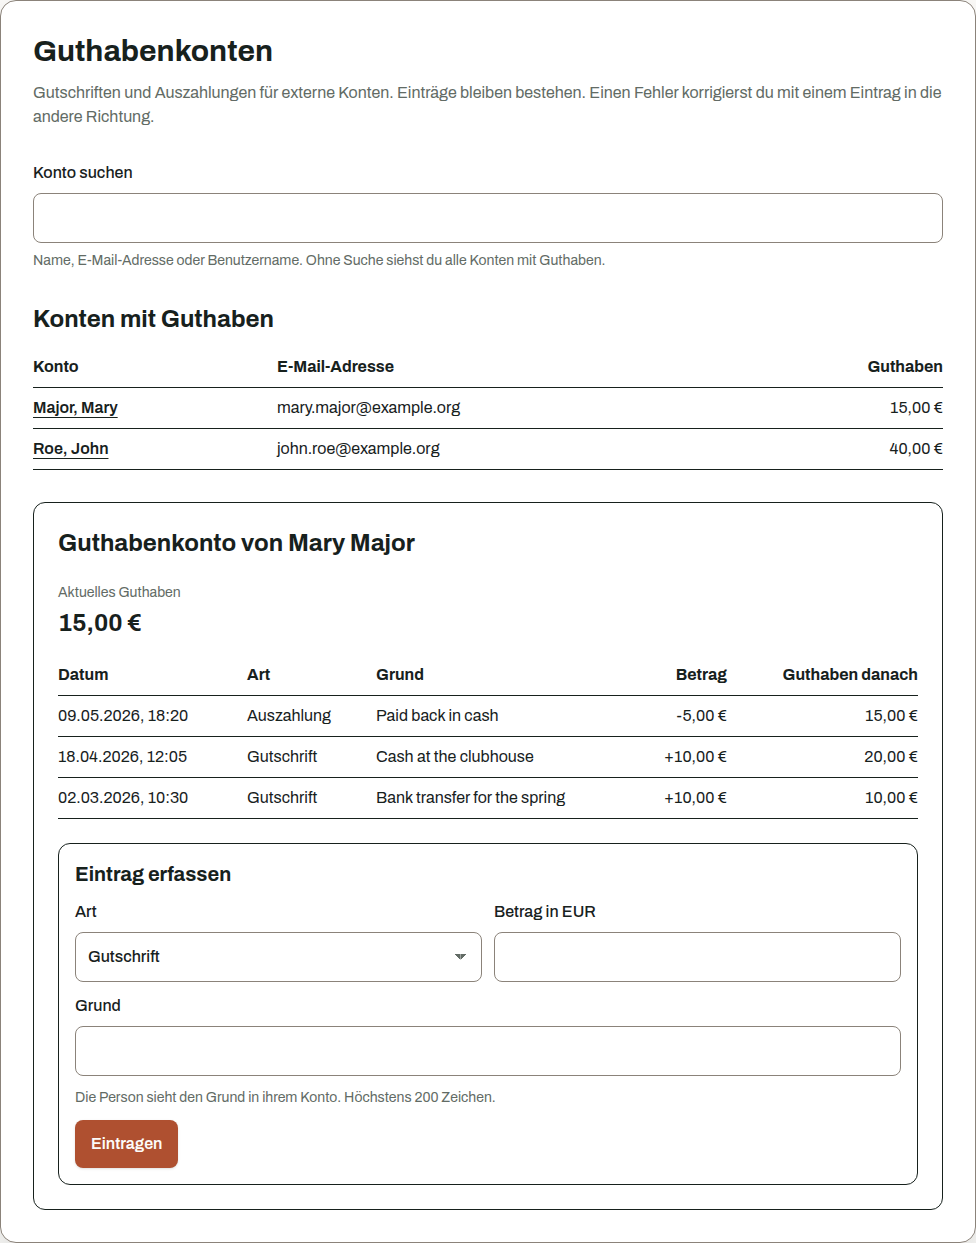
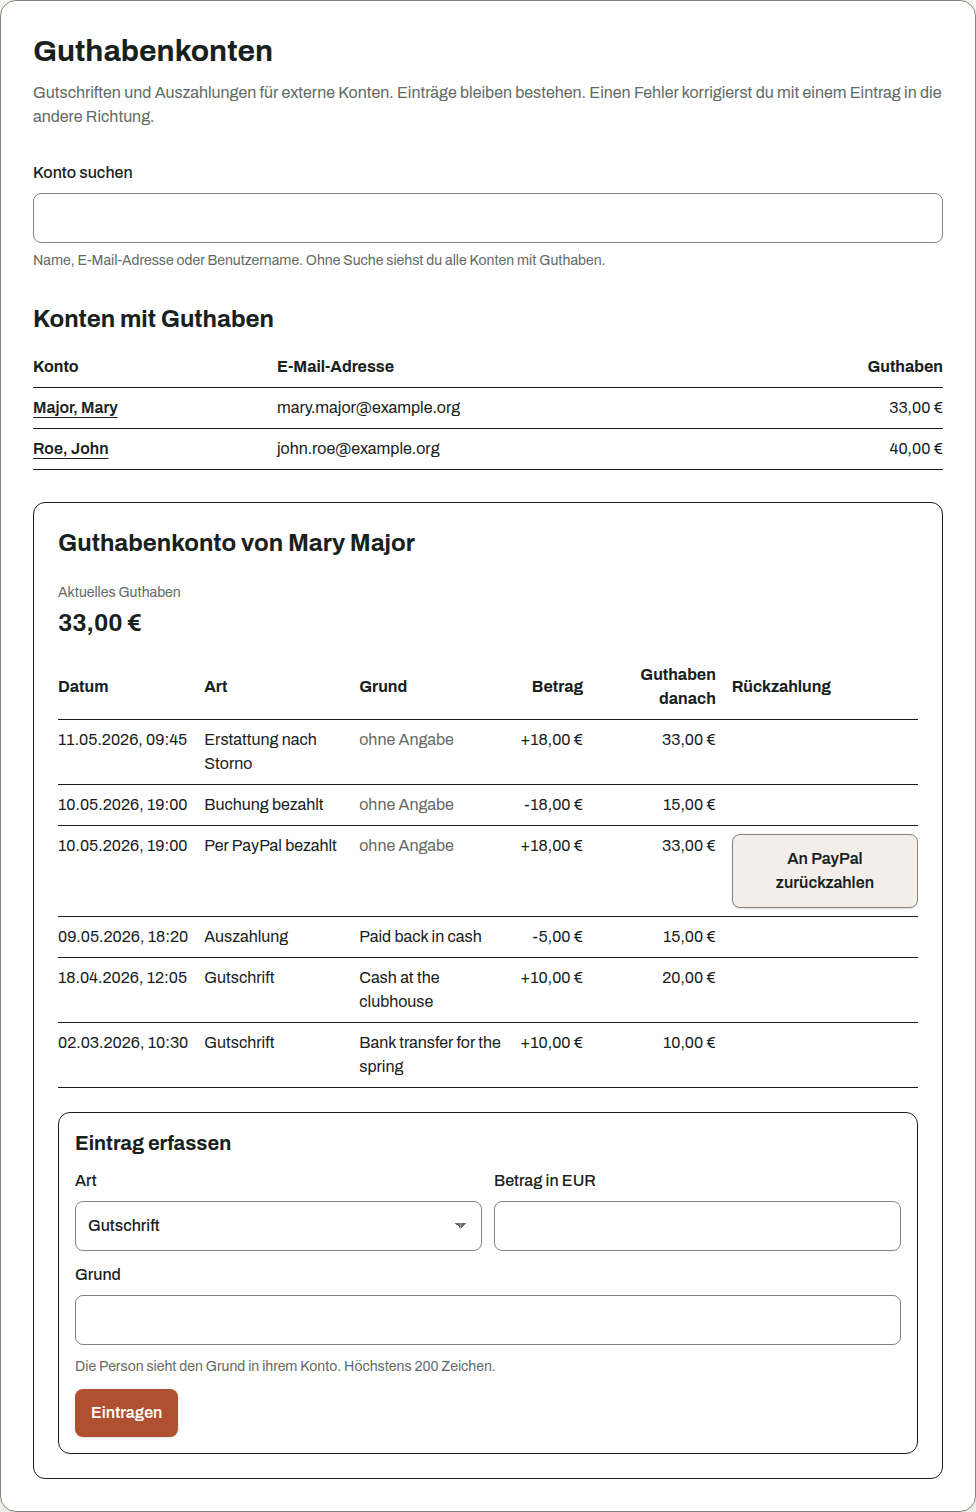
docs: describe returning a PayPal payment
The design names the conditions, the three steps, the clear-refusal rule and
the job. security-risks records that an unclear refund keeps the credit taken.
The board and member guides explain the action, its states and the new ledger
lines, and the credit screenshot shows a cancelled PayPal payment to return.
The journey catalogue count was already stale and now matches the files.

diff --git a/frontend/e2e/admin-examples.ts b/frontend/e2e/admin-examples.ts
@@ -56,15 +56,25 @@ export const operationalLogExample = {
 
 export const creditHoldersExample = [
   { accountId: "77777777-0000-0000-0000-000000000001", firstName: "Mary", lastName: "Major",
-    email: "mary.major@example.org", balanceMinor: 1500, currency: "EUR" },
+    email: "mary.major@example.org", balanceMinor: 3300, currency: "EUR" },
   { accountId: "77777777-0000-0000-0000-000000000002", firstName: "John", lastName: "Roe",
     email: "john.roe@example.org", balanceMinor: 4000, currency: "EUR" }
 ];
 
+const PAYPAL_EXAMPLE_ORDER = "5O190127TN364715T";
+const PAYPAL_EXAMPLE_BOOKING = "7f400000-0000-0000-0000-000000000002";
+
 export const creditLedgerExample = {
-  balanceMinor: 1500,
+  balanceMinor: 3300,
   currency: "EUR",
   items: [
+    { id: "88888888-0000-0000-0000-000000000006", kind: "BOOKING_REFUND", amountMinor: 1800, currency: "EUR",
+      balanceAfterMinor: 3300, recordedAt: "2026-05-11T07:45:00Z", bookingId: PAYPAL_EXAMPLE_BOOKING },
+    { id: "88888888-0000-0000-0000-000000000005", kind: "BOOKING_DEBIT", amountMinor: -1800, currency: "EUR",
+      balanceAfterMinor: 1500, recordedAt: "2026-05-10T17:00:00Z", bookingId: PAYPAL_EXAMPLE_BOOKING },
+    { id: "88888888-0000-0000-0000-000000000004", kind: "PAYPAL_PAYMENT", amountMinor: 1800, currency: "EUR",
+      balanceAfterMinor: 3300, recordedAt: "2026-05-10T17:00:00Z", bookingId: PAYPAL_EXAMPLE_BOOKING,
+      paypalOrderId: PAYPAL_EXAMPLE_ORDER },
     { id: "88888888-0000-0000-0000-000000000003", kind: "PAYOUT", amountMinor: -500, currency: "EUR",
       balanceAfterMinor: 1500, recordedAt: "2026-05-09T16:20:00Z", note: "Paid back in cash" },
     { id: "88888888-0000-0000-0000-000000000002", kind: "CREDIT", amountMinor: 1000, currency: "EUR",
@@ -74,6 +84,8 @@ export const creditLedgerExample = {
   ],
   nextCursor: null
 };
+
+export const payPalRefundOptionsExample = { items: [{ orderId: PAYPAL_EXAMPLE_ORDER, refundable: true }] };
 
 export const guestFeesExample = {
   from: "2026-01-01",

diff --git a/frontend/e2e/guide-screenshots.spec.ts b/frontend/e2e/guide-screenshots.spec.ts
@@ -1,6 +1,6 @@
 import { readFileSync } from "node:fs";
 import { type Page, type TestInfo } from "@playwright/test";
-import { accessGrantsExample, connectionCheckExample, creditHoldersExample, creditLedgerExample, guestFeesExample, operatorHealthExample, payPalCaptureExample, payPalCheckExample, payPalSettingsExample } from "./admin-examples";
+import { accessGrantsExample, connectionCheckExample, creditHoldersExample, creditLedgerExample, guestFeesExample, operatorHealthExample, payPalCaptureExample, payPalCheckExample, payPalRefundOptionsExample, payPalSettingsExample } from "./admin-examples";
 import { backAtTheJourneyInstant, expect, expectAdministrationOverview, onTheVisualDay, selectPreference, test } from "./fixtures";
 
 // The guides are read in the light theme on a page column, in the language its project names, and
@@ -308,10 +308,12 @@ const drivers: Record<string, (page: Page, visualDate: string) => Promise<void>>
   "credit": async (page) => {
     await page.context().route("**/api/treasury/credit/accounts", (route) => route.fulfill({ json: creditHoldersExample }));
     await page.context().route("**/api/treasury/credit/accounts/*/entries*", (route) => route.fulfill({ json: creditLedgerExample }));
+    await page.context().route("**/api/treasury/paypal/refunds?*", (route) => route.fulfill({ json: payPalRefundOptionsExample }));
     await page.getByTestId("admin-credit-link").click();
     await expect(page.getByTestId("credit-holder"), "the example, not the live instance, is drawn").toHaveCount(2);
     await page.getByTestId("credit-holder-open").first().click();
-    await expect(page.getByTestId("credit-entry")).toHaveCount(3);
+    await expect(page.getByTestId("credit-entry")).toHaveCount(6);
+    await expect(page.getByTestId("paypal-refund"), "the cancelled PayPal booking offers its return").toBeVisible();
     await expect(page.getByTestId("credit-form")).toBeVisible();
   },
   "paypal": async (page) => {

diff --git a/docs/design.md b/docs/design.md
@@ -510,8 +510,52 @@ an attempt is read at PayPal with the former credentials: a capture is recorded,
 order voided, and an unreadable one stays open for the reconciliation. An order keeps the
 environment it was created in, and sandbox credentials work on every instance.
 
-Courtside stores nothing from PayPal's payer object. The audit events of the checkout name the
-booking, the order, the environment, amounts and reasons, never payer data.
+#### Returning a PayPal payment
+
+`TREASURER` and `ADMIN` return one whole PayPal payment through PayPal from the treasurer credit
+page; a partial refund does not exist. `GET /api/treasury/paypal/refunds?accountId=` lists an
+account's PayPal payments and says for each whether it can be returned, and why not when it cannot.
+A payment can be returned when its order is `CAPTURED` and its booking was cancelled with a
+`BOOKING_REFUND`, or `LATE_CAPTURED` and credited with a `PAYPAL_LATE_CAPTURE`; when the order has
+no refund in any status; when the payer's balance still covers the amount of the order's credit
+entry; and when PayPal is on with the environment the order was created in. Otherwise
+`POST /api/treasury/paypal/refunds` refuses it with `payment.paypal.refund.notRefundable`,
+`payment.paypal.refund.alreadyRefunded`, `payment.paypal.refund.creditSpent` with amount, balance
+and currency, or `payment.paypal.refund.unavailable`, and writes nothing. The request needs a
+recent authentication. An anonymised account's payment can be returned too.
+
+The return runs in three steps, and no database lock is held across the PayPal call:
+
+1. One transaction locks the `paypal_order` row and then the payer's credit account, checks the
+   conditions, appends a `PAYPAL_REFUND` entry of minus the amount, stores a `PENDING`
+   `paypal_refund` and audits `payment.paypal.refund.requested`.
+2. Courtside asks PayPal to refund the capture in full, with the `paypal_refund` id as
+   `PayPal-Request-Id`, so a repeated request cannot refund twice.
+3. The answer is recorded under the order's row lock. A completed refund becomes `COMPLETED` with
+   PayPal's refund id, is audited as `payment.paypal.refunded` and tells the payer that the amount
+   went back to PayPal; this message kind cannot be declined. A refund PayPal holds as pending keeps
+   its refund id and stays `PENDING`.
+
+Credit comes back only on a clear refusal: a 4xx answer to the refund request other than 401, 403,
+409, 429, a duplicate or in-progress request and an already fully refunded capture, or a refund
+PayPal reports as `FAILED` or `CANCELLED`. Before restoring it Courtside reads the order, and follows
+a refund of the full amount PayPal lists there instead. A refusal marks the refund `FAILED` with
+PayPal's reason, appends a `PAYPAL_REFUND_REVERSED` of the amount and is audited as
+`payment.paypal.refundFailed`. `FAILED` is final for the order; the treasurer then pays out by hand.
+A capture PayPal reports as already fully refunded, for example after a refund in the PayPal
+account, is resolved by reading the order: a completed refund listed there is recorded as completed,
+otherwise the refund stays pending. Every other answer, including no answer, a timeout, a 5xx and a
+body Courtside cannot read, leaves the refund `PENDING` with its credit taken.
+
+`PayPalReconciliation` also resolves `PENDING` refunds older than five minutes, up to 50 per run and
+longest unchecked first: one without a PayPal refund id is requested again with the same request id
+after reading the order, one with an id is read at PayPal, and the answer is recorded as in step 3.
+These calls count towards the run's stop after three unanswered reads. A refund that stays unclear
+keeps its credit taken, and the treasurer page shows it as unclear with the advice to check the
+PayPal account.
+
+Courtside stores nothing from PayPal's payer object. The audit events of the checkout and the refund
+name the booking, the order, the environment, amounts and reasons, never payer data.
 
 The guest fee report under `/api/treasury` lists, for `TREASURER` and `ADMIN`, each member's charged
 guest places and their sum for a period, by default the current calendar year in the club time
@@ -1519,8 +1563,8 @@ leaving the queue is how a member stops it. It always reaches the centre, follow
 choice and is handed to the relay before ordinary booking mail because it runs out within minutes.
 A mail composed after the offer was taken, declined or expired fails instead of being sent.
 The welcome, credentials, displacement, participant-addition notices, the club's cancellations,
-freed bookings and series moves cannot be disabled as kinds, because no other product path tells the member that
-somebody else wrote them into a booking, took one away or moved it. A holder's own cancellation and the
+freed bookings, series moves and a returned PayPal payment cannot be disabled as kinds, because no other product
+path tells the member that somebody else wrote them into a booking, took one away, moved it or sent their money back. A holder's own cancellation and the
 series summary can be declined, like the confirmation: My bookings already shows what they say. A
 declined email channel stops the mail for displacement, participant-addition notices and the club's
 cancellations and moves as well; the centre then replaces it, and every centre page carries the

diff --git a/site/board-guide.md b/site/board-guide.md
@@ -749,7 +749,7 @@ jedes Konto mit Guthaben. Die Suche findet externe Konten nach Name, E-Mail-Adre
 Benutzername. Administratoren finden die Seite unter *Mitglieder*, Kassenwarte direkt in der
 Seitenleiste.
 
-![Das Guthaben eines externen Spielers mit Stand, Einträgen und dem Formular für Gutschrift und Auszahlung.](screenshots/de/credit.png)
+![Das Guthaben eines externen Spielers mit Stand, Einträgen, einer stornierten PayPal-Zahlung zum Zurückzahlen und dem Formular für Gutschrift und Auszahlung.](screenshots/de/credit.png)
 
 Ein gewähltes Konto zeigt seine Einträge, die neuesten zuerst, mit dem Stand nach jedem Eintrag.
 Mit **Gutschrift** buchst du Geld auf ein externes Konto, mit **Auszahlung** gibst du Guthaben
@@ -770,6 +770,28 @@ und *Erstattung nach Storno*. Von Hand kannst du sie nicht anlegen. Eine PayPal-
 als *Per PayPal bezahlt* und daneben als *Buchung bezahlt*, der Stand bleibt also gleich. Kommt eine
 PayPal-Zahlung erst an, nachdem Courtside den Platz wieder freigegeben hat, wird sie zu Guthaben und
 steht als *Späte PayPal-Zahlung als Guthaben* im Verlauf.
+
+### Eine PayPal-Zahlung zurückzahlen
+
+Möchte ein Spieler das Geld einer stornierten PayPal-Buchung auf seinem PayPal-Konto statt als
+Guthaben, zahlst du die ganze Zahlung über PayPal zurück. Neben einer solchen Zahlung steht im Verlauf
+**An PayPal zurückzahlen**. Courtside nennt dir vorher den Betrag und bucht das Guthaben aus der
+Zahlung im selben Schritt ab, im Verlauf als *PayPal-Erstattung*. Fehlt eine frische
+Passwortbestätigung, fragt Courtside dein Passwort ab.
+
+Zurückzahlen kannst du nur eine Zahlung, deren Buchung storniert und erstattet wurde, oder eine späte
+PayPal-Zahlung, die zu Guthaben wurde. Teilbeträge gibt es nicht. Hat der Spieler das Guthaben schon
+wieder ausgegeben, zeigt der Verlauf statt der Schaltfläche den Grund. Dasselbe gilt, wenn PayPal
+ausgeschaltet ist oder die Zahlung aus der anderen Umgebung stammt. Jede Zahlung lässt sich nur
+einmal zurückzahlen.
+
+Neben der Erstattung steht, wie es ausging. *Über PayPal zurückgezahlt* heißt, das Geld ist
+unterwegs, und der Spieler bekommt eine Nachricht. Lehnt PayPal ab, steht der Grund daneben, und
+Courtside bucht das Guthaben als *PayPal-Erstattung zurückgebucht* wieder auf. Ein zweiter Versuch
+über PayPal geht dann nicht mehr, zahl in diesem Fall von Hand aus. *Unklar, im PayPal-Konto prüfen*
+heißt, PayPal hat nicht eindeutig geantwortet. Courtside fragt alle paar Minuten nach und lässt das
+Guthaben so lange abgebucht. Bleibt es unklar, sieh im PayPal-Konto des Vereins nach. Ist das Geld
+nicht zurückgegangen, buchst du den Betrag mit einer **Gutschrift** wieder auf.
 
 ## PayPal
 

diff --git a/site/en/board-guide.md b/site/en/board-guide.md
@@ -712,7 +712,7 @@ External players can hold credit with the club, for example after paying cash at
 account that holds credit. The search finds external accounts by name, email address or username.
 Administrators find the page under *People*, treasurers directly in the sidebar.
 
-![An external player's credit with balance, entries and the form for credits and payouts.](../screenshots/en/credit.png)
+![An external player's credit with balance, entries, a cancelled PayPal payment to return and the form for credits and payouts.](../screenshots/en/credit.png)
 
 A chosen account shows its entries, newest first, with the balance after each. **Credit** adds money
 to an external account, **Payout** returns credit. An entry lies between 0.01 and 10,000.00 in the
@@ -732,6 +732,26 @@ returns the amount, a cancellation by the club does until the booking starts. Bo
 appears as *Paid with PayPal* next to *Booking paid*, so the balance stays the same. A PayPal payment
 that arrives after Courtside has released the court becomes credit and appears as *Late PayPal
 payment as credit*.
+
+### Returning a PayPal payment
+
+When a player wants the money of a cancelled PayPal booking back in their PayPal account instead of
+as credit, you return the whole payment through PayPal. Such a payment shows **Return to PayPal** in
+the ledger. Courtside names the amount first and takes the credit from the payment back in the same
+step, shown as *PayPal refund*. Without a fresh password confirmation, Courtside asks for your
+password.
+
+You can only return a payment whose booking was cancelled and refunded, or a late PayPal payment that
+became credit. There are no partial amounts. When the player has already spent the credit, the ledger
+shows the reason instead of the button. The same applies when PayPal is switched off or the payment
+comes from the other environment. Each payment can be returned once.
+
+Next to the refund the ledger shows how it ended. *Returned through PayPal* means the money is on its
+way and the player gets a message. When PayPal refuses, the reason appears next to it and Courtside
+puts the credit back as *PayPal refund reversed*. Another attempt through PayPal is then not possible,
+so pay out by hand. *Unclear, check the PayPal account* means PayPal gave no clear answer. Courtside
+asks again every few minutes and keeps the credit taken meanwhile. If it stays unclear, look in the
+club's PayPal account. If the money did not go back, put the amount back with a **Credit** entry.
 
 ## PayPal
 

diff --git a/docs/security-risks.md b/docs/security-risks.md
@@ -430,6 +430,18 @@ PayPal outage or a capture whose outcome is unknown during the change. The order
 `paypal_order` for the treasurer to settle in the PayPal account. Reconsider this bound if Courtside
 keeps retired credentials until their open orders are settled, or receives PayPal webhooks.
 
+## An unclear PayPal refund keeps the player's credit taken
+
+Returning a PayPal payment takes the credit back before Courtside asks PayPal, and gives it back only
+when PayPal clearly refuses the refund. When PayPal does not answer, answers something Courtside
+cannot read, or never settles the refund, the refund stays pending and the player's balance stays
+lower by the amount, although PayPal may not have sent the money. The reconciliation keeps asking,
+and the treasurer page shows the refund as unclear. Causing it needs no access beyond a treasurer
+starting a refund during a PayPal outage, and the player loses at most the one payment's amount
+until somebody acts. The treasurer checks the club's PayPal account and, if the money did not go
+back, corrects the balance with a `CREDIT` entry and a note. Reconsider this bound when PayPal
+webhooks become part of the product, or when clubs report refunds that stay pending for days.
+
 ## Sandbox credentials confirm bookings with test money
 
 PayPal's sandbox accepts payments with test accounts that move no real money. Courtside allows

diff --git a/docs/browser-pwa-testing.md b/docs/browser-pwa-testing.md
@@ -89,12 +89,12 @@ qualified by silently mixing incompatible assets.
 
 ## The journey catalogue
 
-Nineteen journeys walk a club's way through the product, one per case: installing the instance,
+Thirty-one journeys walk a club's way through the product, one per case: installing the instance,
 importing a member list, booking as a member, a trainer, a sport director and a groundskeeper,
-looking after an account, and reading what the club did. Ten of them are things somebody does at
-the club with a phone in their hand and run on the desktop and on both emulated phones; the nine a
-board does at a desk run on the desktop alone. Every journey runs in German and in English, which
-is 78 runs, executed serially.
+paying and returning a booking by PayPal, looking after an account, and reading what the club did.
+Eleven of them are things somebody does at the club with a phone in their hand and run on the desktop
+and on both emulated phones; the twenty a board does at a desk run on the desktop alone. Every
+journey runs in German and in English, which is 106 runs, executed serially.
 
 A journey may only open the application, activate something a person can see, and type into
 something a person can type into. `journey-policy.ts` refuses navigation by address, `fill`,

diff --git a/site/member-guide.md b/site/member-guide.md
@@ -236,6 +236,12 @@ Frist kannst du nicht mehr stornieren. Storniert der Verein deine Buchung vor ih
 du den Betrag immer zurück. Erscheinst du nicht und gibt Courtside den Platz deshalb frei, bleibt der Betrag beim
 Verein.
 
+Möchtest du das Geld einer stornierten PayPal-Buchung lieber auf dein PayPal-Konto zurück, frag den
+Kassenwart. Er zahlt die ganze Zahlung über PayPal zurück, und dein Guthaben sinkt um denselben
+Betrag. Im Verlauf steht das als *PayPal-Erstattung*, und du bekommst eine Nachricht, sobald PayPal das
+Geld zurückgeschickt hat. Lehnt PayPal ab, kommt der Betrag als *PayPal-Erstattung zurückgebucht*
+wieder auf dein Guthaben.
+
 ![Die Seite nach der Rückkehr von PayPal: die Zahlung ist eingegangen und die Buchung bestätigt.](screenshots/de/paypal-return.png)
 
 ![Der Bereich für Mitspieler, Gäste und Platzfüller im Buchungsdialog.](screenshots/de/booking-participants.png)

diff --git a/site/en/member-guide.md b/site/en/member-guide.md
@@ -228,6 +228,11 @@ deadline you can no longer cancel. If the club cancels your booking before it st
 the amount back. If you do not turn up and Courtside releases the court for that reason, the club keeps the
 amount.
 
+If you would rather have the money of a cancelled PayPal booking back in your PayPal account, ask the
+treasurer. They return the whole payment through PayPal, and your credit drops by the same amount. The
+ledger shows this as *PayPal refund*, and you get a message once PayPal has sent the money back. If
+PayPal refuses, the amount comes back to your credit as *PayPal refund reversed*.
+
 ![The page after returning from PayPal: the payment arrived and the booking is confirmed.](../screenshots/en/paypal-return.png)
 
 ![The booking fields for members, guests and slot fillers.](../screenshots/en/booking-participants.png)
